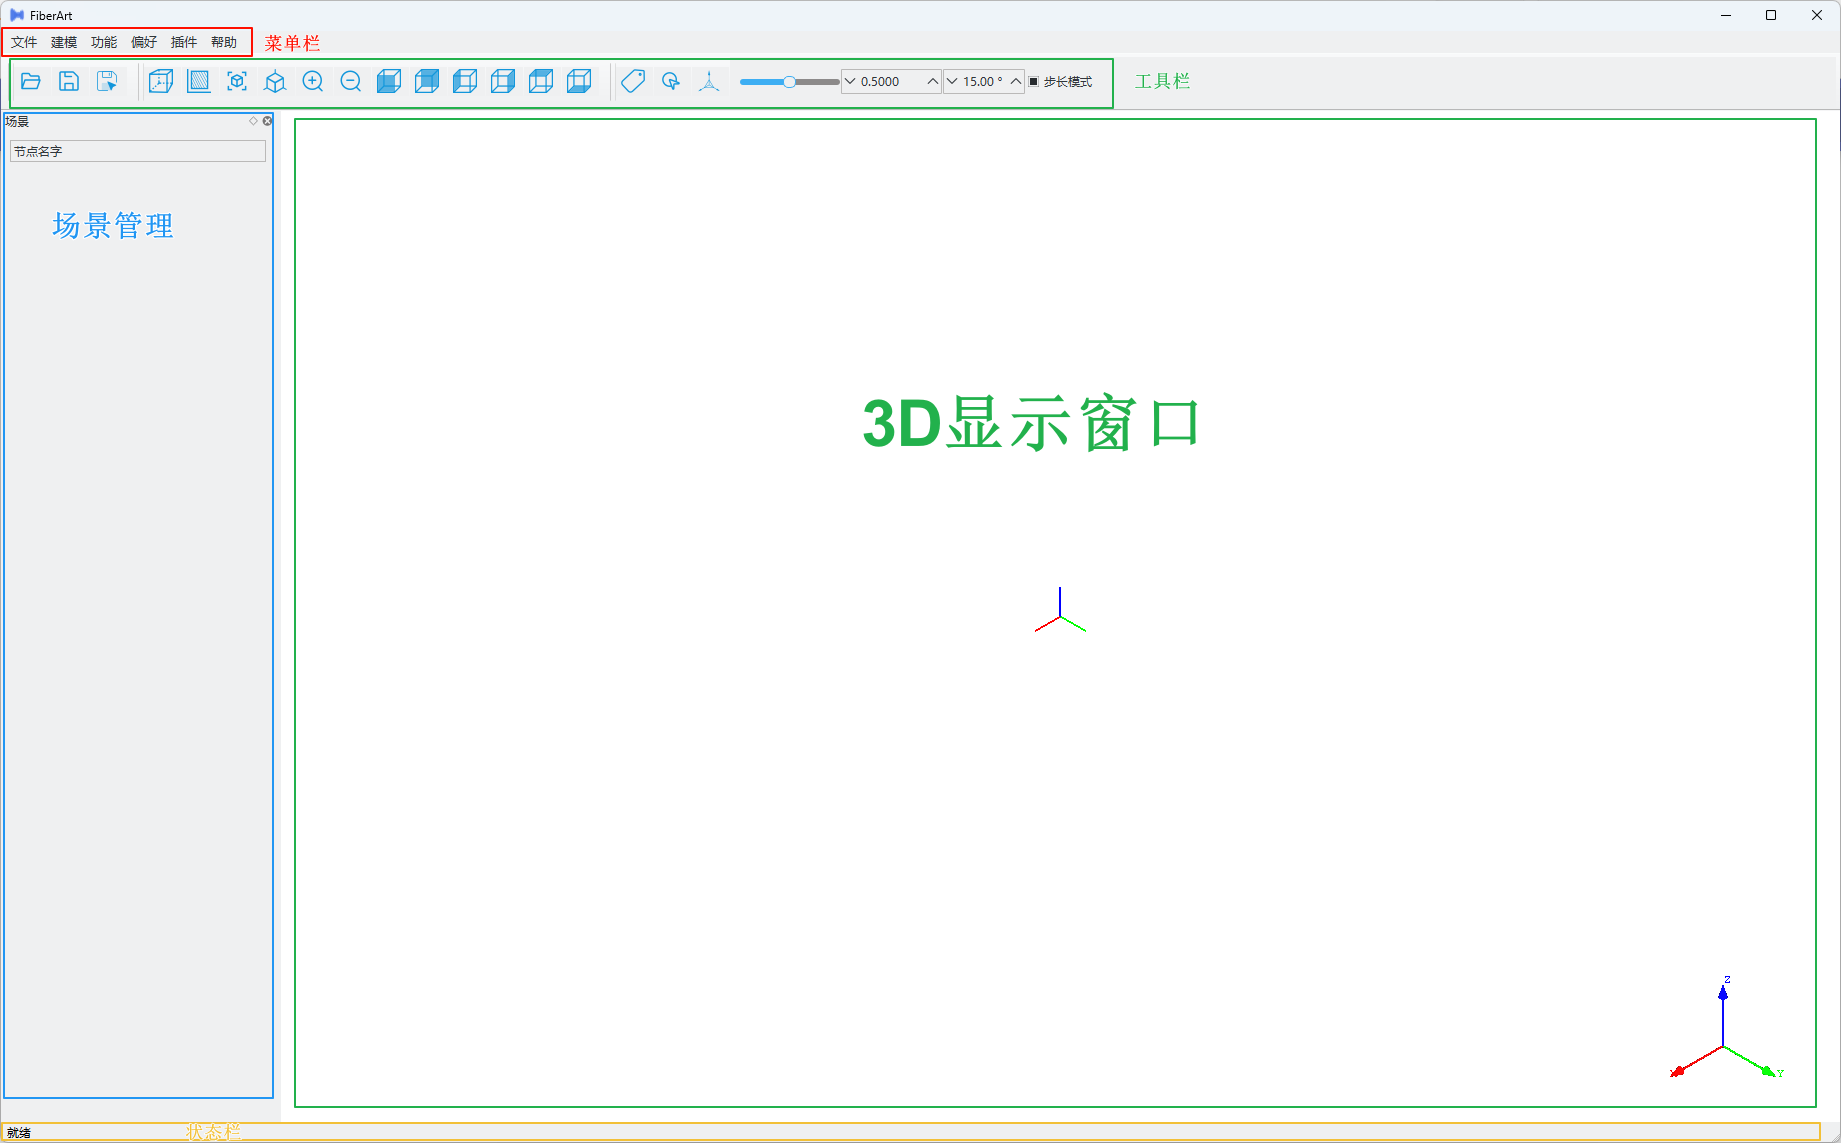
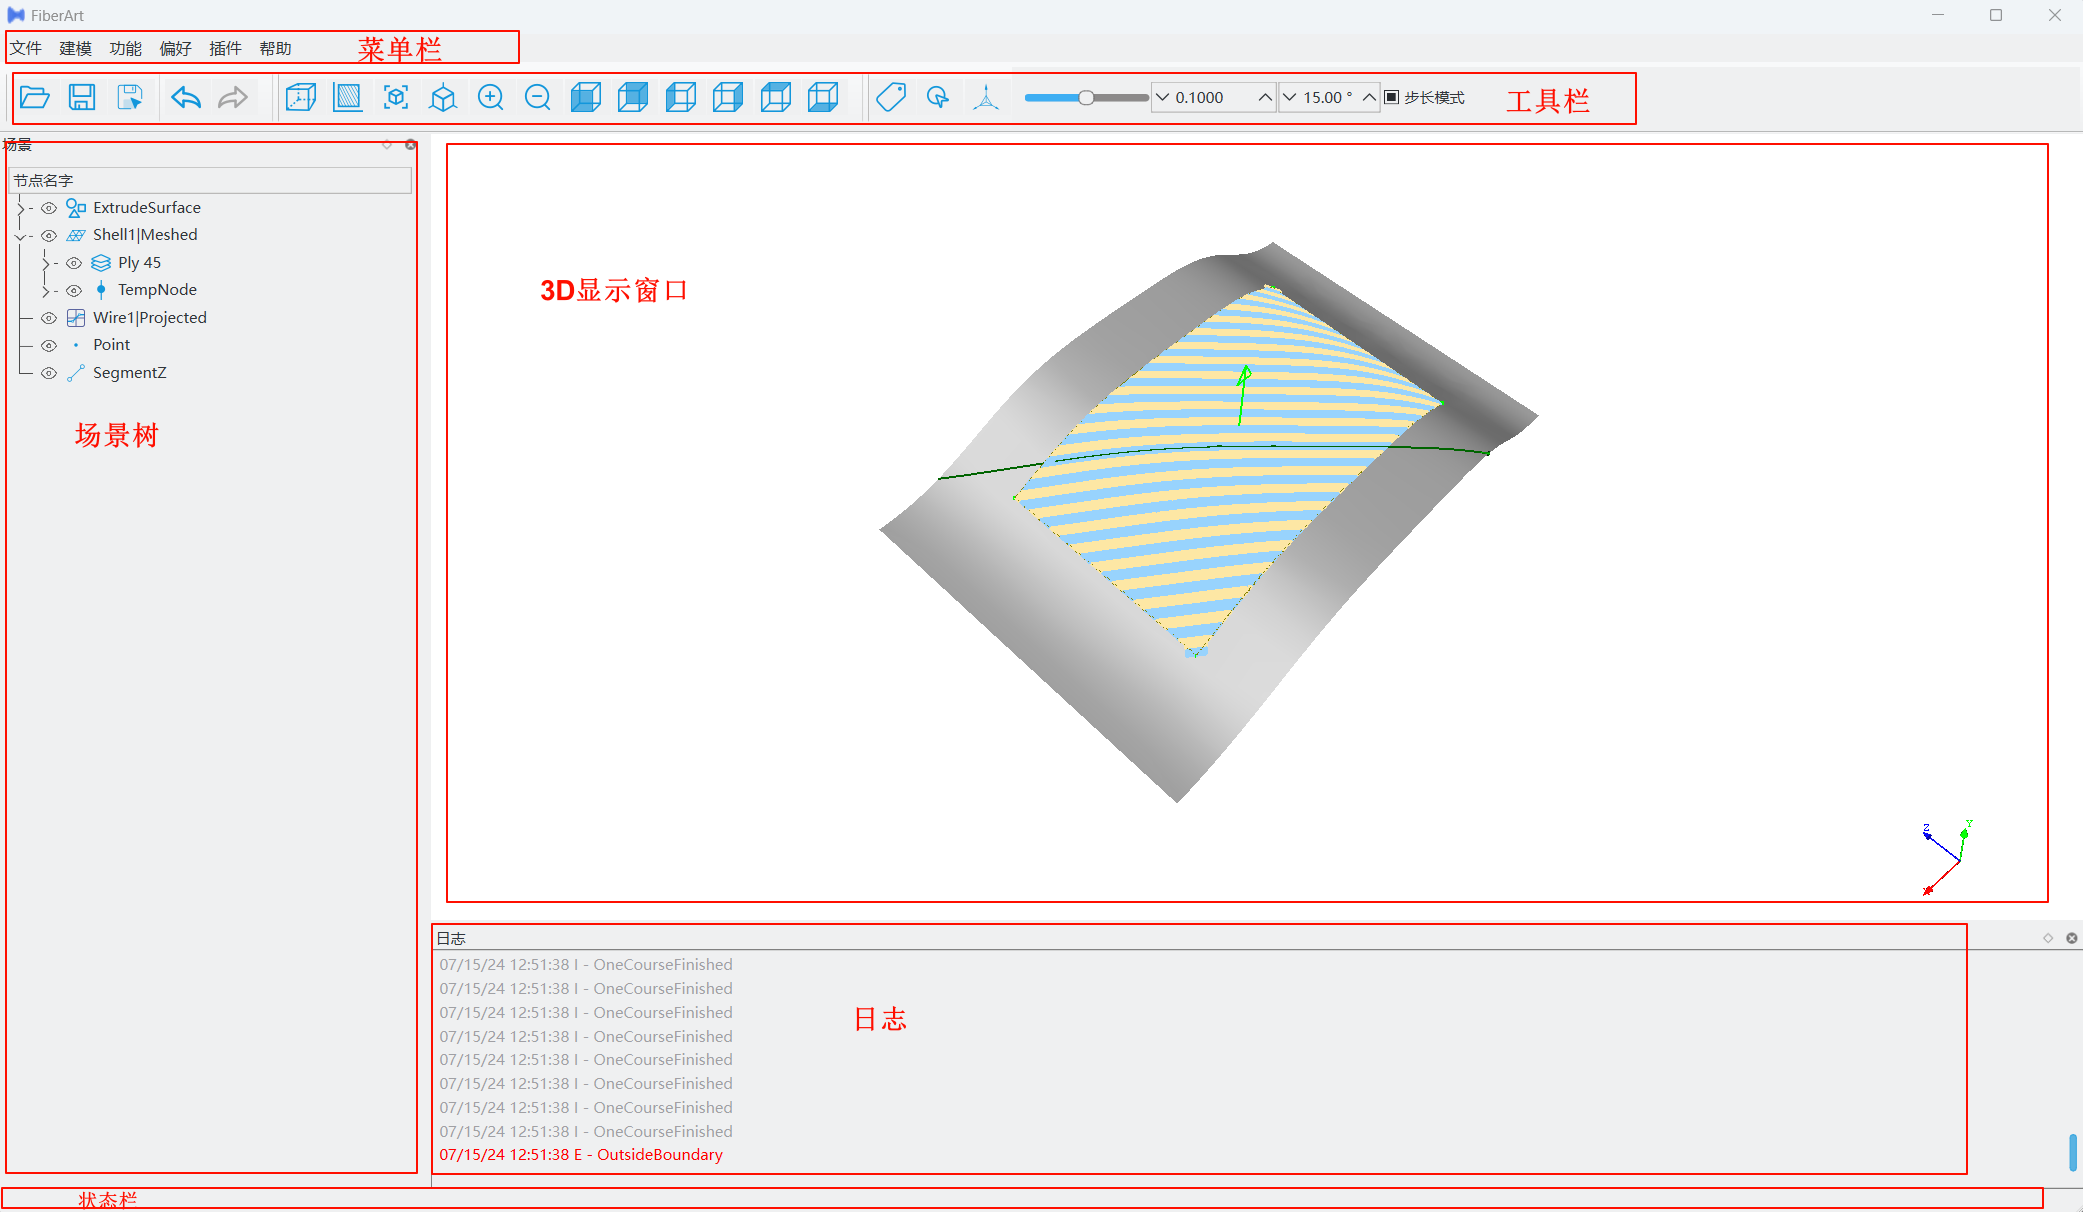
improve extrude surface get started

diff --git a/docs/getting_started.md b/docs/getting_started.md
@@ -5,6 +5,11 @@
 
 ![FiberArt Initial Window](./images/fiberart_window.png)
 
+### 菜单栏
+菜单栏是软件所有功能的入口，单机每个菜单可以下拉打开子菜单，比如软件的规划、仿真等功能通过点击*功能*选项，勾选相关的复选框，可以显示或者隐藏对应功能的界面。
+
+![](./images/fiberart_function.png)
+
 ### 工具栏
 
 工具栏中聚集了一些常用的功能，如打开/保存文件、三维显示视角控制、三维球等。当鼠标悬停在对应图标上时，会出现文字注解。
@@ -19,126 +24,88 @@ FiberArt软件会把功能类似的交互放置在一个子窗口中，所有的
 
 ![窗口布局](./images/fiberart_dockwindow_drag_demo.gif)
 
-## 打开文件
 
-可使用三种方式：
+## 曲面铺放路径规划示例
 
-- 点击菜单栏 `文件` 按钮，展开下拉菜单，单击`打开`
-  
-![打开文件](./images/fiberart_open_from_menu.png)
+下面通过一个实际的曲面铺放路径规划示例来演示软件的相关功能。
 
-- 点击工具栏的 `打开` 图标
+1. 点击工具栏打开按钮，在弹出的*选择文件*对话框中，将右下角的文件类型过滤选择为*CADSolidShell*，然后选择安装目录下的*share/Data/Surfaces/ExtrudeSurface.stp*文件
+   
+    ![](./images/file_filter.png)
 
-![打开文件](./images/fiberart_open_icon.png)
+2. 在菜单栏点击*功能*，在下拉菜单中勾选*铺层规划器*
+   
+    ![](./images/fiberart_planner_dockwidget.png)
 
-- 通过快捷键 `Ctrl+O` 打开文件
+3. 点击场景树中的节点左侧的*>*，展开场景树 
+   
+    ![](./images/expand_scene.gif) 
 
-!!! attention "注意"
-    软件中某一按钮如果提供了快捷键，都会标注在该按钮的文字旁边；使用快捷键时，需要将输入法切换到英文，不然无法正常工作。
+4. 点击场景树中的*Shell1*，然后点击铺层规划器中的*设置铺放曲面*
+   
+    ![](./images/set_layup_surface.gif)
 
-### 文件对话框
+5. 点击菜单栏*建模*，在子菜单中选择*线段*，在子菜单中选择*Z方向线段*
+   
+    ![](./images/create_segment.gif)
 
-在弹出的打开文件对话框中：
+6. 在场景树中选择*SegmentZ*，然后点击铺层规划器中的*设置参考方向*
+   
+    ![](./images/set_layup_direction.gif)
 
-- 导航到`FiberArt安装目录/share/Data/Surfaces`
-- 将文件类型过滤器设置为`CADSolidShell(*.step *.stp *iges *.igs)`
-- 选择要打开的`SamplePanel.stp`文件，双击该文件或者点击`打开`按钮即可打开该文件。
+7. 创建一个参考点，并设置到铺层规划器，在菜单栏的建模中选择点，然后在3D窗口中，使用鼠标点击曲面上一点，然后在场景树的*Point*节点上右击，在弹出的菜单中，选择其他，拾取点
+   
+    ![](./images/create_and_pick_point.gif)
 
-![打开文件对话框](./images/fiberart_open_sample_panel.gif)
+8. 选择创建的*Point*节点，在铺层规划器中点击*设置参考点*
+   
+    ![](./images/set_ref_point.gif)
 
-## 模型处理
+9. 在场景树中选择*Wire1*，然后在铺层规划器中点击*添加边界*
 
-展开场景，可以看到模型中包含的曲线、曲面等节点。这里我们只关心和路径规划相关的节点，暂时删除其他节点。每个节点用从根节点到当前节点的路径表示，比如`SamplePanel/layup surface`表示铺放表面。
+    ![](./images/set_boundary.gif)
 
-### 删除节点
-保留`SamplePanel/A-10-FiberArt`和`SamplePanel/layup surface`，删除其他节点。
+10. 点击铺层规划器中*新建规划器*
 
-![删除不用的节点](./images/fiberart_delete_unused_nodes.gif)
+    ![](./images/new_planner.png)    
 
-!!! tip "提示"
-    删除节点可以选中节点，然后右击，在弹出的快捷菜单中选择`删除`，或者选中节点后直接按键盘上的`Del`键。
+11. 点击*向右规划至边界*![](./images/fiberart_plan_to_right_boundary.png)
+    
+    ![](./images/plan_to_right_boundary.gif)
 
-### 改变透明度
+12. 点击*向左规划至边界*![](./images/fiberart_plan_to_left_boundary.png)
 
-在3D显示区域，因为`A-10-FiberArt`曲线和曲面是重合的，所以在不同的视角下，曲线的一些部分可能会显示不出来，此时可以将铺放曲面设置为半透明状态，来避免显示冲突。
+    ![](./images/plan_to_left_boundary.gif)
 
-在`layup surface`节点上右击，在弹出的快捷菜单中点击`改变透明度 T`，或者选中节点后，在键盘上按`T`（注意输入法必须切换到英文），节点将在透明/半透明状态自动切换。
+13. 该0°铺层已经完成，在场景树中隐藏*Ply 0*和*TempNode*节点
 
-点击场景管理界面的空白区域取消选择，或者选中节点后直接按键盘上的`Esc`键取消选择。取消选择后，节点由高亮状态回到正常显示状态。
+    ![](./images/hide_ply0.gif)
+
+14. 在铺层规划器中修改轨迹角度为45°，重新*新建规划器*，然后分别*向左/右规划至边界*
+
+    ![](./images/plan_45.gif)
+
+15. 保存文件，点击工具栏中的保存按钮，在弹出的对话框中选择保存的位置和文件名称。
 
 
-### 曲面离散
+## 规划注意事项
 
-如果导入的模型是step、iges格式，软件会自动将其转化为三角网格结构，但是除非模型很简单（平面、圆柱等规则类），否则建议用户按照下述步骤进行手动转换。
+以上是一个常规的曲面铺放路径规划流程，以上步骤可以大致分为：1. 导入CAD模型；2. 设置规划参数；3. 实施规划；4. 保存规划结果。
 
-1. 双击`layup surface`，右侧弹出`layup surface 属性`面板；
-2. 在`曲面离散`中选择`Netgen`，根据需求选择`网格划分等级`，一般选择**中等**或**精细**就足以满足计算需求；
-3. 如果曲面模型是由很多面组合形成的，且存在一些很狭小的面以及可能存在很小的缝隙等缺陷，设置`曲面缝合误差`的值为一个合适的数值，算法将会努力尝试修补这些缺陷，得到一个更好的三角网格结构；如果曲面不存在上述问题，请将`曲面缝合误差`设置为0，以跳过对应的步骤，节省计算时间；
+在规划完成之后，进一步对规划的轨迹进行[仿真与后处理](./simulation.md)，最终生成可以由铺放设备运行的数控程序或者机器人程序。
+
+### 规划参数设置
+在上述过程中，我们仅涉及到必要的设置步骤，其他都采取了默认的参数设置，实际规划中，我们可能需要修改很多参数，比如铺放根数、剪切距离等等，这些参数可以在*Ply*的属性编辑中进行设置，详细的参考[规划参数设置](./ply_planner.md)。
+
+### 曲面处理
+
+如果导入的模型是step、iges格式，软件会使用默认的参数及算法自动将其转化为三角网格结构，这对于大多数简单的模型（平面、圆柱等规则类）可以满足要求。但是一些复杂曲面建议用户按照下述步骤，先设置合理的转换精度和算法，再进行手动转换。
+
+1. 双击`Shell1`节点，右侧弹出`Shell1 属性`面板；
+2. 在`曲面离散`中选择`默认`，设置线性偏差、角度偏差等参数，一般建议线性偏差选择0.0001~0.001m左右，具体偏差可以根据模型尺寸改变，模型尺寸越大，偏差应该也稍微大一点；角度偏差一般5~10°；
+3. 如果曲面模型是由很多面组合形成的，且存在一些很小的面以及可能存在很小的缝隙等缺陷，设置`曲面缝合误差`的值为一个合适的数值，算法将会努力尝试修补这些缺陷，得到一个更好的三角网格结构；如果曲面不存在上述问题，请将`曲面缝合误差`设置为0，以跳过对应的步骤，节省计算时间；
 4. 点击计算，生成网格结构，可能会需要一些时间；
 
-![meshing](./images/fiberart_meshing.gif)
-
-计算完成后，在场景树中增加了 `layup surface|Meshed` 的节点，隐藏`layup surface`节点，双击`layup surface|Meshed`节点，在右侧弹出的`layup surface|Meshed 属性`面板中，将`渲染风格`修改为`线框`可以更清晰的显示三角网格结构；修改为`实体`，恢复实体显示风格。
+计算完成后，在场景树中增加了 `Shell1|Meshed` 的节点，隐藏原有的`Shell1`节点以避免显示重叠问题，双击`Shell1|Meshed`节点，会弹出该节点的属性编辑器，可以对Mesh进行一些基本操作，比如反转法线、导出、偏移、投影曲线和点到Mesh等。
 
 
-## 添加参考点、线
-
-在菜单栏选择`建模`，在弹出的菜单中点击`点`，新建一个参考点节点；点击`线段`，再点击`X方向线段`，新建一个和坐标系X轴方向平行的线段节点。
-
-### 拾取点
-
-在3D窗口中，点击铺放边界内路径规划的起始点，然后在场景界面右击参考点节点，在弹出的快捷菜单中，点击`其他`，在子菜单中点击`拾取点`，参考点的位置将设置为刚刚在模型上拾取的点。
-
-![添加参考点](./images/fiberart_pick_point.gif)
-
-!!! tip "提示"
-    击3D窗口，激活鼠标，按住`Alt`键，鼠标可由手型变为指针，方便更加精确的拾取。
-
-
-## 路径规划
-
-点击菜单栏的功能选项，在弹出的子菜单中，勾选`铺层规划参数`、`铺层规划器`，在铺层规划参数界面中设置、改变对应设备的参数，如铺放头最大可铺放带数量、剪切距离等，详细内容请参考[铺层规划参数](./plan_parameters.md)。
-
-- 在铺层规划器界面中，设置要采用的规划算法、路径角度；
-- 在场景界面选中`layup surface|Meshed`节点后，在铺层规划器界面中点击`选择铺放曲面`按钮，使用同样的方法依次设置参考方向为`SegmentX`节点，参考点为`Point`节点；
-- 在场景界面选择`SamplePanel/A-10-FiberArt`曲线节点，在铺层规划器界面，单击`添加边界`按钮；
-- 点击`新建规划器`，将会显示初始的参考曲线（IRC，Initial Reference Curve）；
-- 点击![向右规划到边界](./images/fiberart_plan_to_right_boundary.png)，将会规划到右侧边界；
-- 点击![向左规划到边界](./images/fiberart_plan_to_left_boundary.png)，将会规划到左侧边界；
-
-![铺层规划](./images/fiberart_plan.gif) 
-  
-!!! note
-    类似暂停、播放那一排的按钮分别是： 
-
-    - 向左规划到边界
-    - 向左规划一组
-    - 停止规划
-    - 向右规划一组
-    - 向右规划到边界
-
-### 场景保存
-
-点击工具栏的 `保存` 图标，在弹出的文件对话框中选择要保存的文件路径和名称，点击`保存`。该功能会保存整个场景树中的所有内容；如果只想保存单个节点，可以选中节点后，点击工具栏中的 `保存节点` 图标。
-
-### 显示铺放路径
-
-在铺层规划器界面点击`显示铺放路径`，可显示压辊的铺放路径。
-
-![显示铺放路径](./images/fiberart_show_head_path.png)
-
-
-## 后处理
-
-在`菜单栏`的`插件`选项中，勾选`后处理`，在`后处理`界面中：
-
-- 设置铺层节点
-- 选择后处理程序
-- 设置导出路径等
-- 然后单击运行
-
-![后处理](./images/fiberart_postprocess.png)
-![后处理结果](./images/fiberart_postprocess_result.png)
-
-!!! note
-    不同设备可能需要对后处理程序进行一定程度的修改，定制化开发后处理脚本，相关信息请联系软件开发者。
